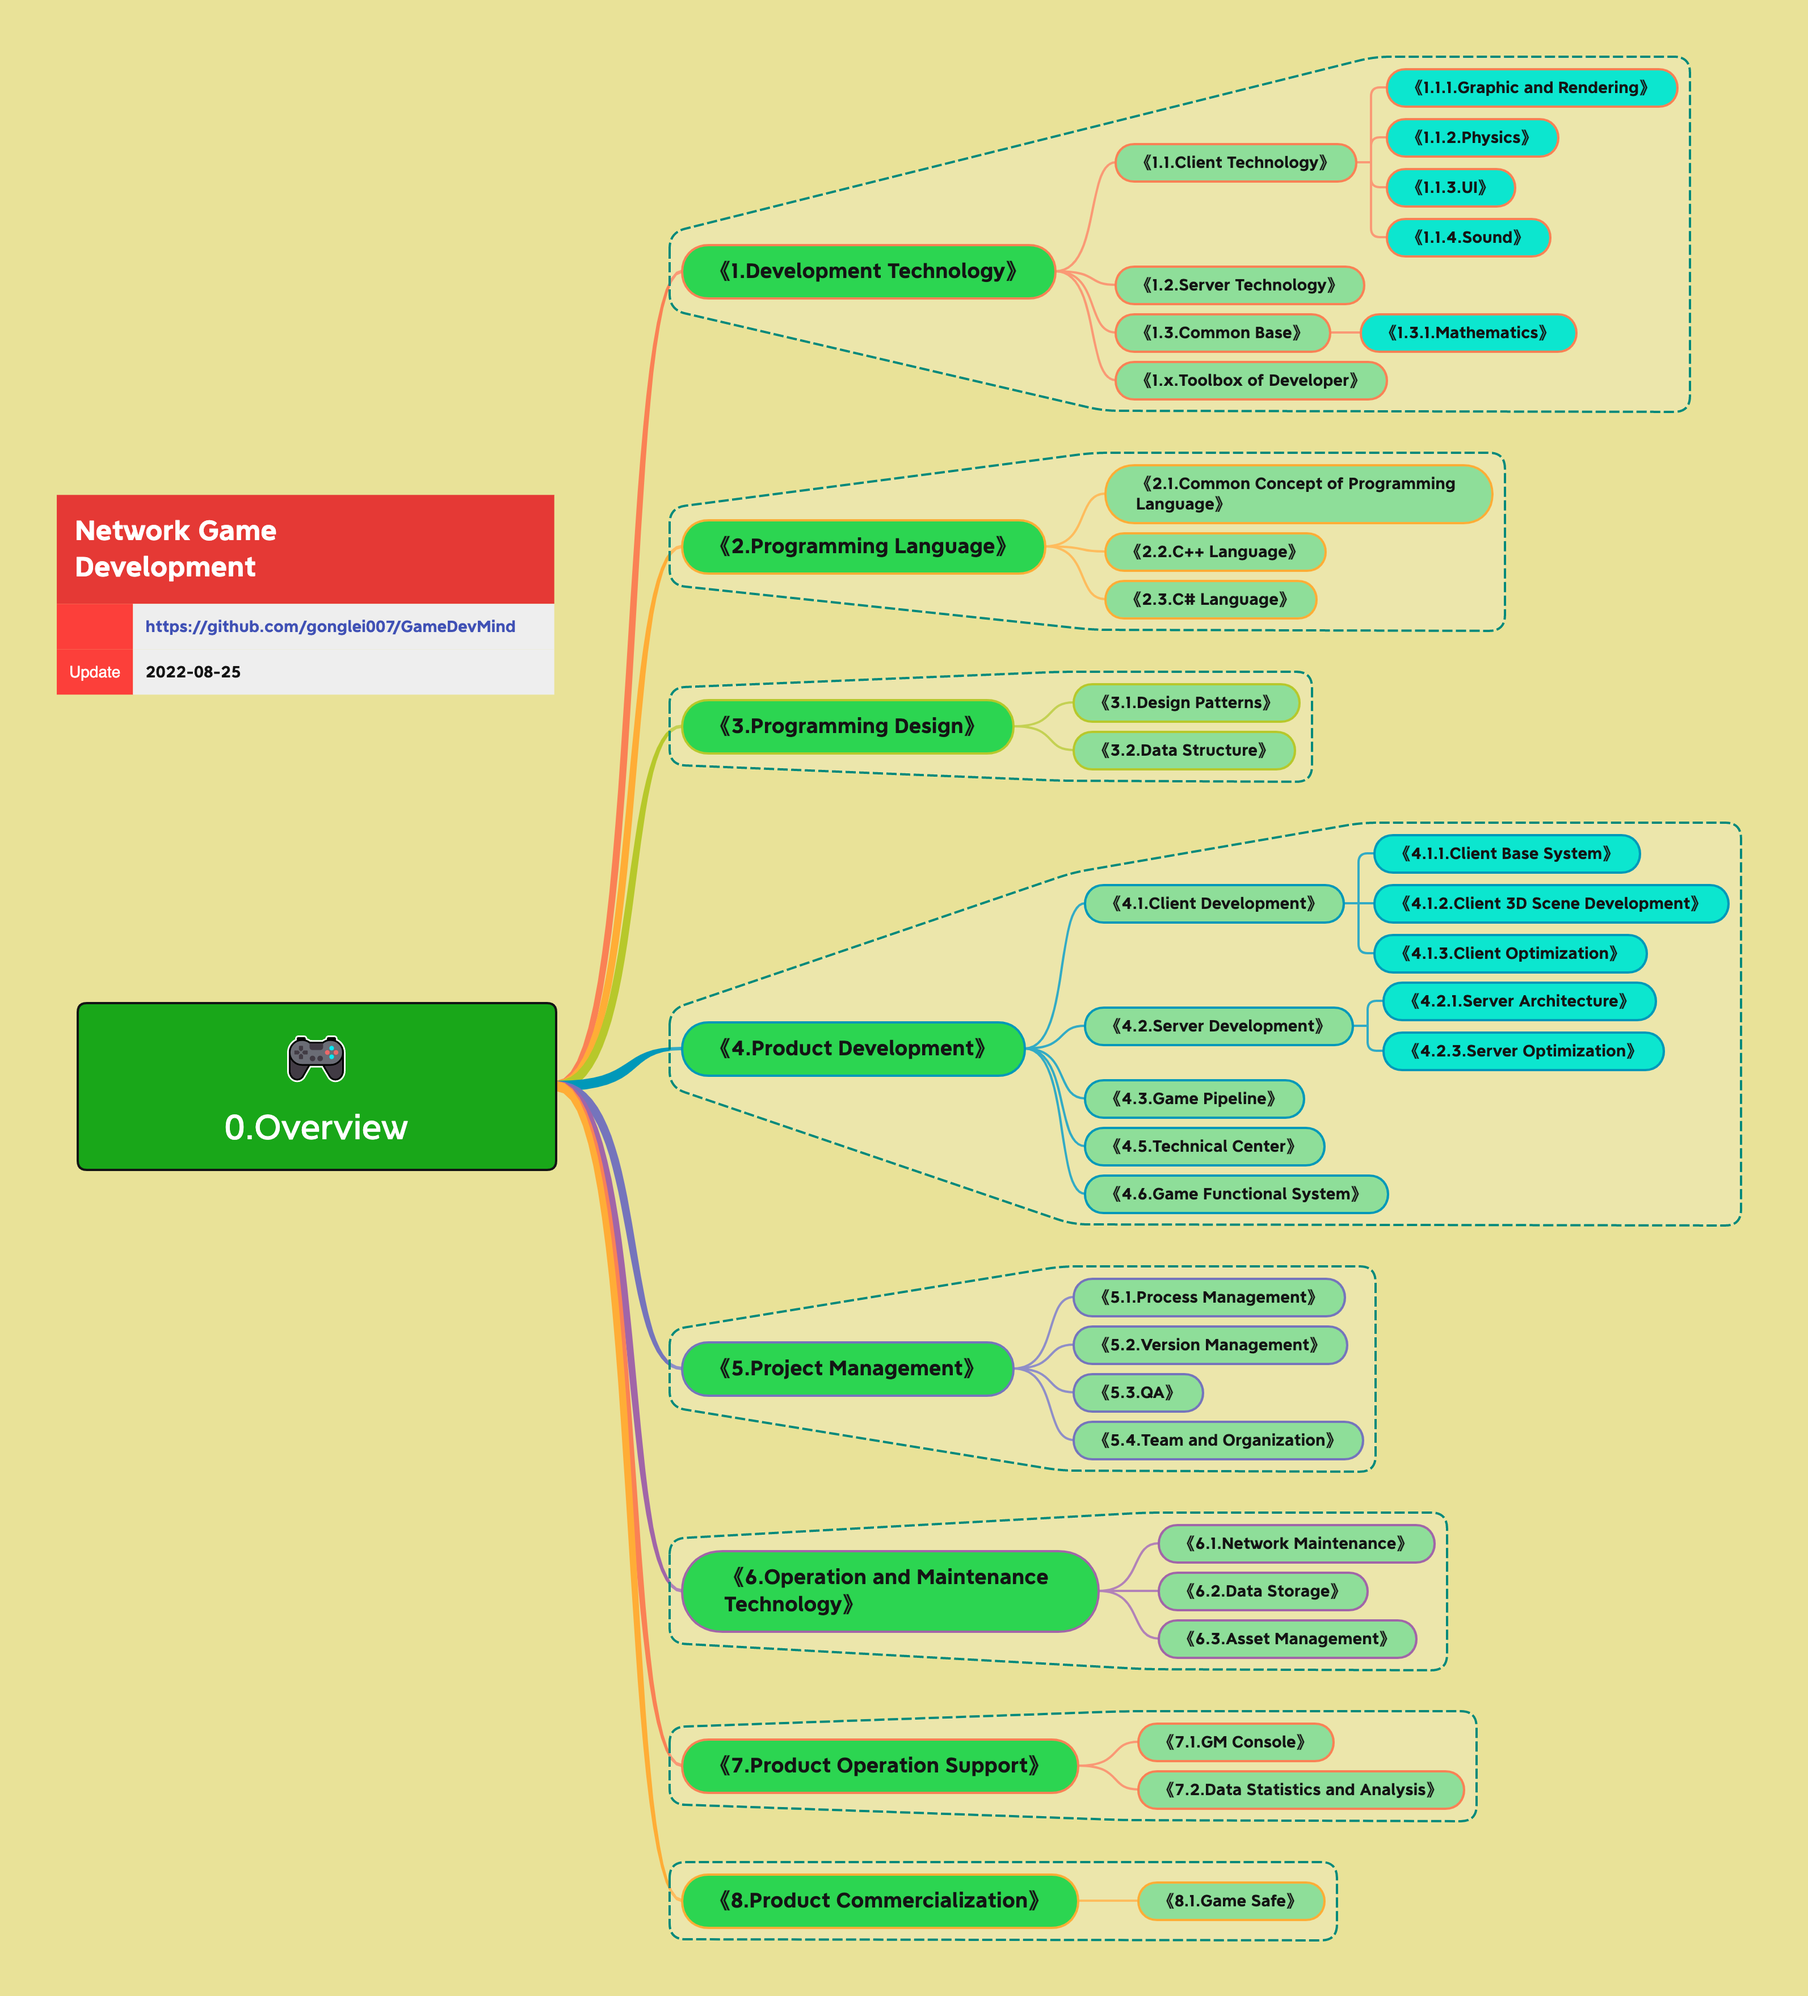
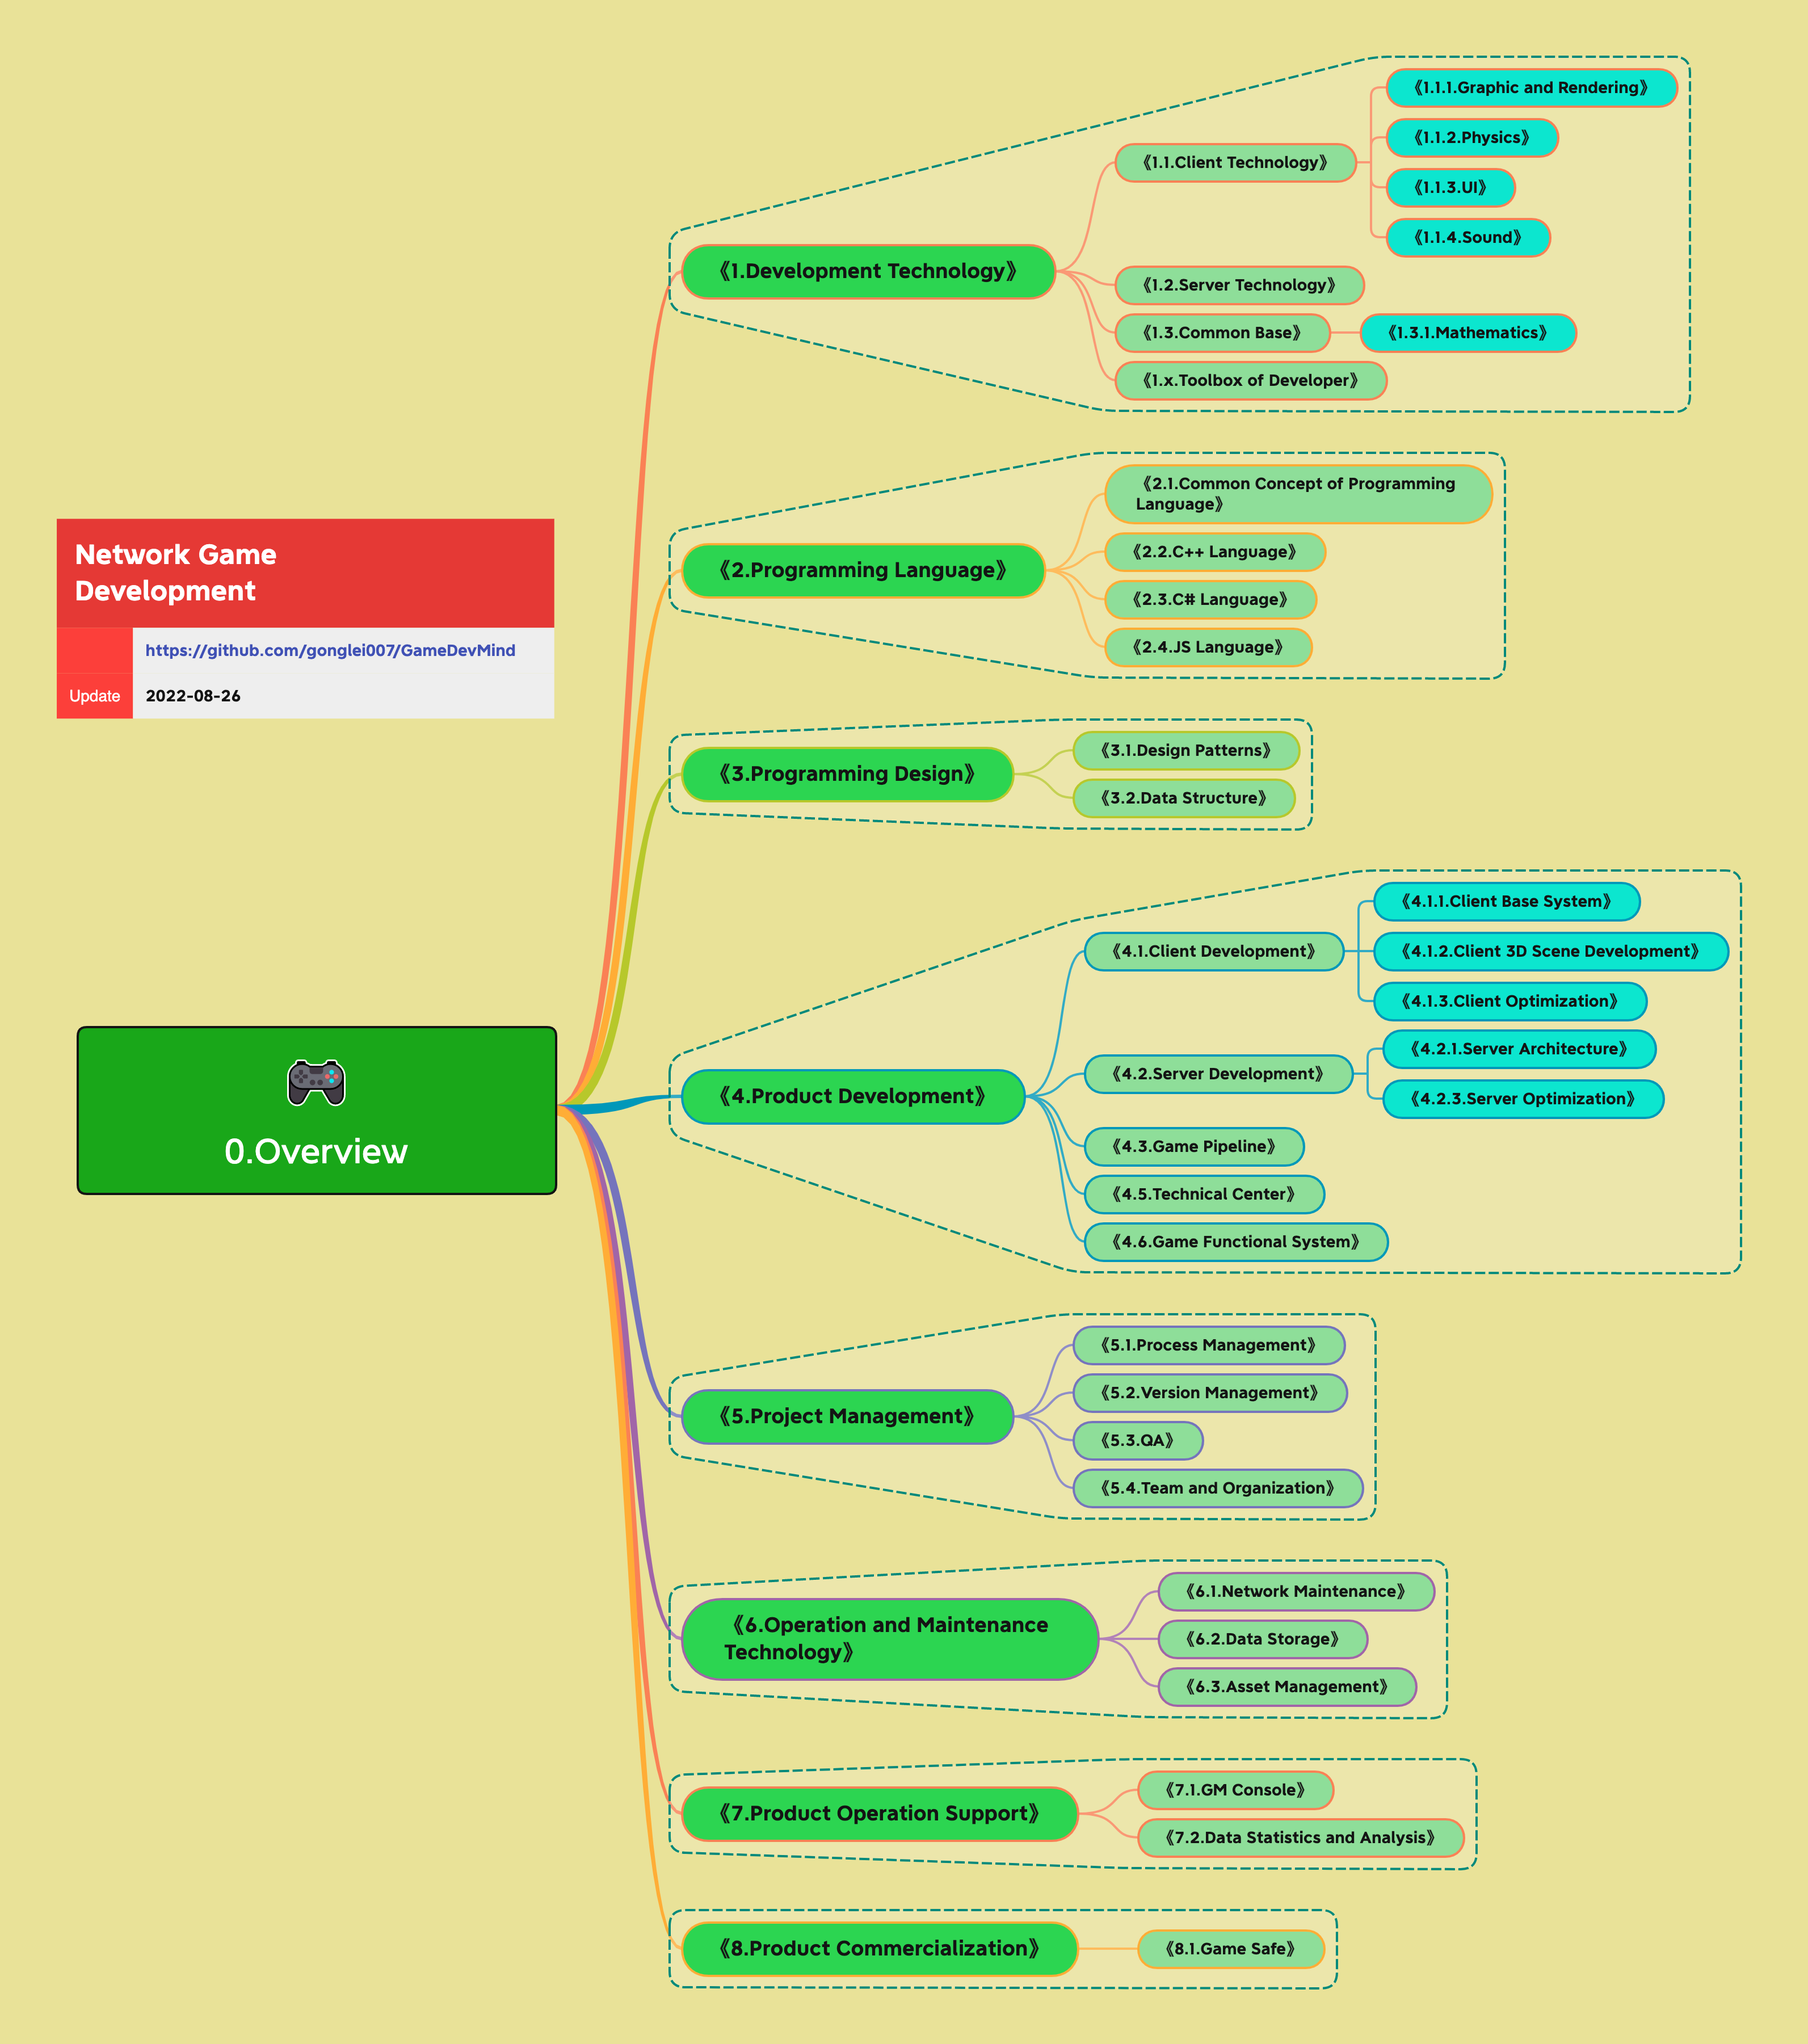
批量更新资料

diff --git a/README-en.md b/README-en.md
@@ -37,6 +37,7 @@
     * [2.1.Common Concept of Programming Language](https://github.com/gonglei007/GameDevMind/blob/main/mds/2.1.编程语言共通概念.md)
     * [2.2.C++ Language](https://github.com/gonglei007/GameDevMind/blob/main/mds/2.2.C++语言.md)
     * [2.3.C# Language](https://github.com/gonglei007/GameDevMind/blob/main/mds/2.3.C%23%E8%AF%AD%E8%A8%80.md)
+    * [2.4.JS Language](https://github.com/gonglei007/GameDevMind/blob/main/mds/2.4.JS语言.md)
 * [3.Programming Design](https://github.com/gonglei007/GameDevMind/blob/main/mds/3.程序设计.md)
     * [3.1.Design Patterns](https://github.com/gonglei007/GameDevMind/blob/main/mds/3.1.设计模式.md)
     * [3.2.Data Structure](https://github.com/gonglei007/GameDevMind/blob/main/mds/3.2.数据结构.md)

diff --git a/README.md b/README.md
@@ -45,6 +45,7 @@
     * [2.1.编程语言共通概念](https://github.com/gonglei007/GameDevMind/blob/main/mds/2.1.编程语言共通概念.md)
     * [2.2.C++语言](https://github.com/gonglei007/GameDevMind/blob/main/mds/2.2.C++语言.md)
     * [2.3.C#语言](https://github.com/gonglei007/GameDevMind/blob/main/mds/2.3.C%23%E8%AF%AD%E8%A8%80.md)
+    * [2.4.JS语言](https://github.com/gonglei007/GameDevMind/blob/main/mds/2.4.JS语言.md)
 * [3.程序设计](https://github.com/gonglei007/GameDevMind/blob/main/mds/3.程序设计.md)
     * [3.1.设计模式](https://github.com/gonglei007/GameDevMind/blob/main/mds/3.1.设计模式.md)
     * [3.2.数据结构](https://github.com/gonglei007/GameDevMind/blob/main/mds/3.2.数据结构.md)

diff --git a/mds/2.编程语言.md b/mds/2.编程语言.md
@@ -11,3 +11,4 @@
 * [2.1.编程语言共通概念](https://github.com/gonglei007/GameDevMind/blob/main/mds/2.1.编程语言共通概念.md)
 * [2.2.C++语言](https://github.com/gonglei007/GameDevMind/blob/main/mds/2.2.C++语言.md)
 * [2.3.C#语言](https://github.com/gonglei007/GameDevMind/blob/main/mds/2.3.C#语言.md)
+* [2.4.JS语言](https://github.com/gonglei007/GameDevMind/blob/main/mds/2.4.JS语言.md)

diff --git a/mds/2.3.C#语言.md b/mds/2.3.C#语言.md
@@ -2,7 +2,7 @@
 <p align="center">C#语言特有的一些特性。</p>
 
 **关键词:**<br/>
-*C#，lambda表达式，范式*
+*C#,lambda表达式,范式,dotnet,mono*
 
 ## 图谱
-![alt text](https://github.com/gonglei007/GameDevMind/blob/main/exports/2.3.C%23语言.png?raw=true)
+![图片加载中...](https://github.com/gonglei007/GameDevMind/blob/main/exports/2.3.C%23语言.png?raw=true)

diff --git a/mds/2.4.JS语言.md b/mds/2.4.JS语言.md
@@ -1,0 +1,8 @@
+<h2 align="center">JS语言</h2>
+<p align="center">JS语言特有的一些特性。</p>
+
+**关键词:**<br/>
+*js,nodejs,pm2,express*
+
+## 图谱
+![图片加载中...](https://github.com/gonglei007/GameDevMind/blob/main/exports/2.4.JS语言.png?raw=true)
